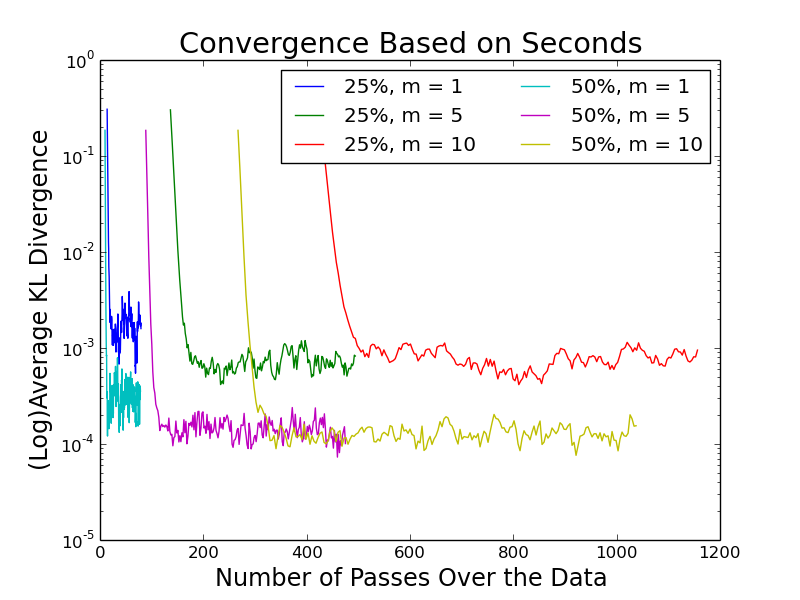
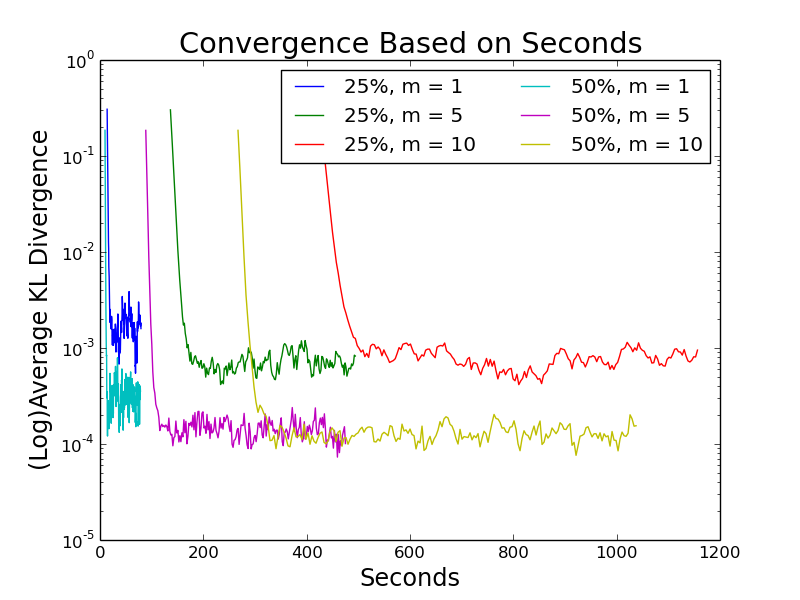
revise the axis label

Changed region(s): [[0.2812, 0.93, 0.75, 0.99]]

diff --git a/data_and_scripts/Figure3_Material/draw.py b/data_and_scripts/Figure3_Material/draw.py
@@ -119,6 +119,6 @@ for i in xrange(6):
 plt.legend(loc='upper right', ncol=2)
 plt.title('Convergence Based on Seconds', fontsize='xx-large')
 plt.yscale('log')
-plt.xlabel('Number of Passes Over the Data', fontsize='x-large')
+plt.xlabel('Seconds', fontsize='x-large')
 plt.ylabel('(Log)Average KL Divergence', fontsize='x-large')
 plt.savefig('fig_kl_div_25_50_perc_jags_time.png')
